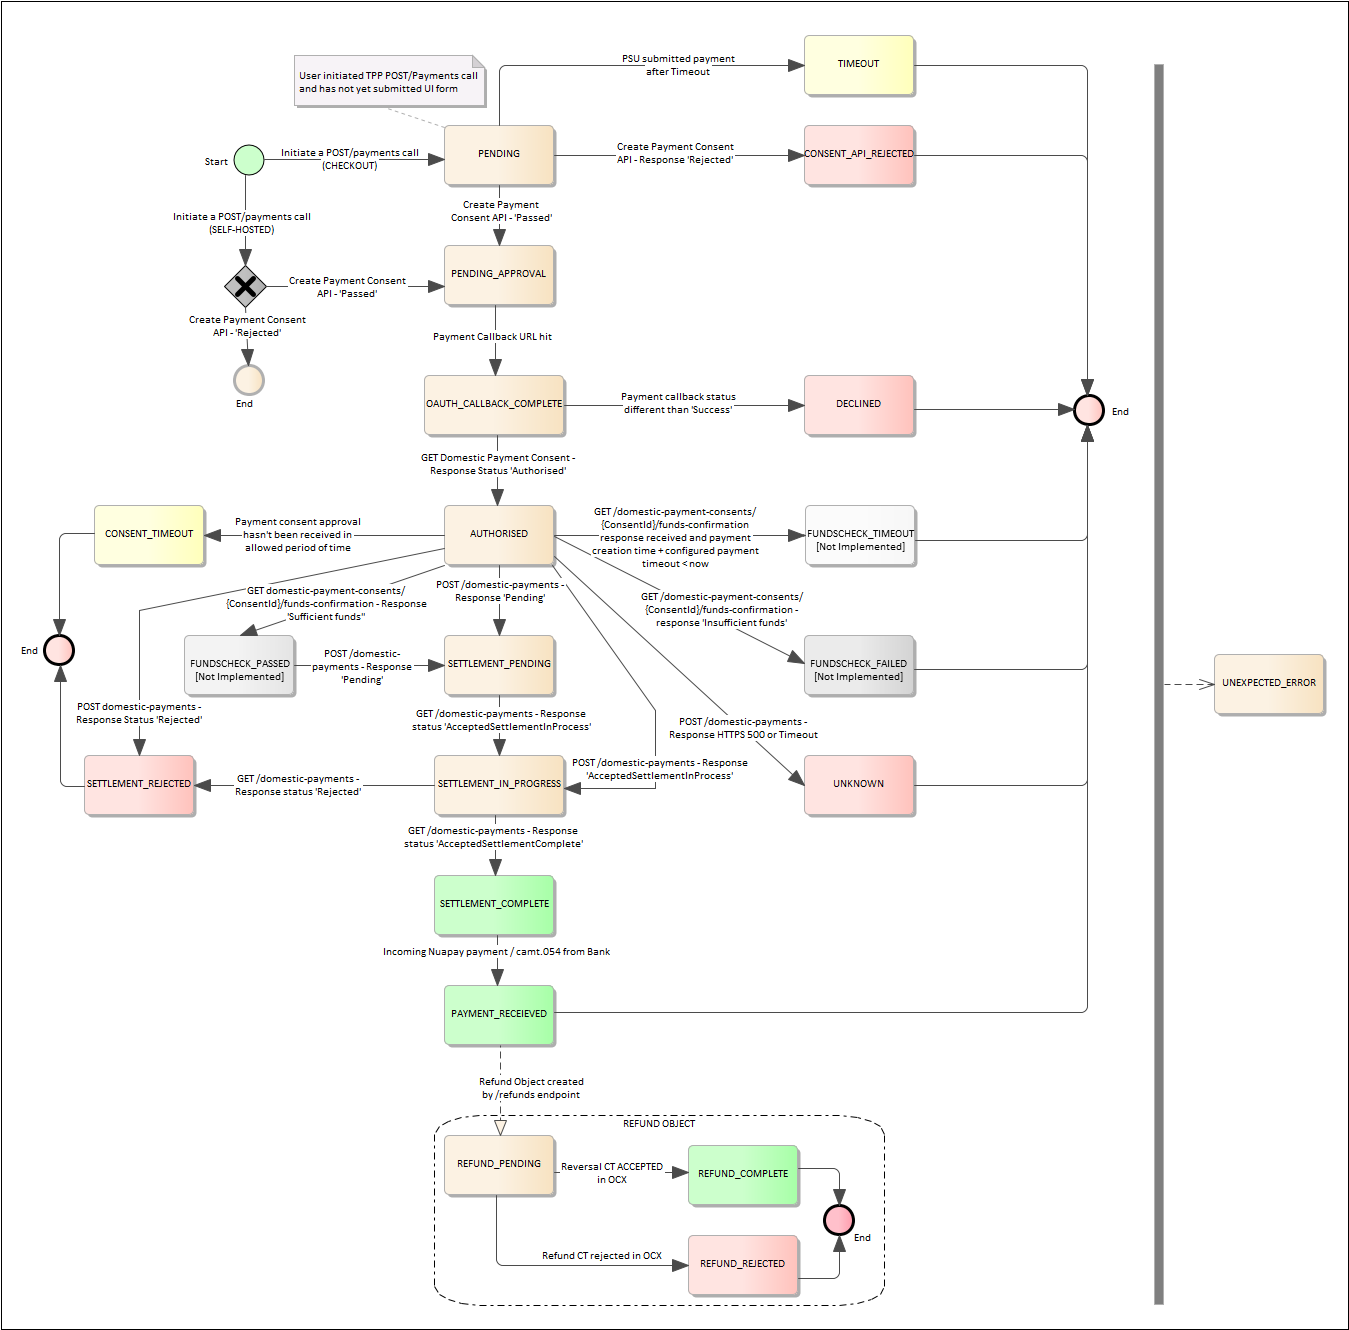
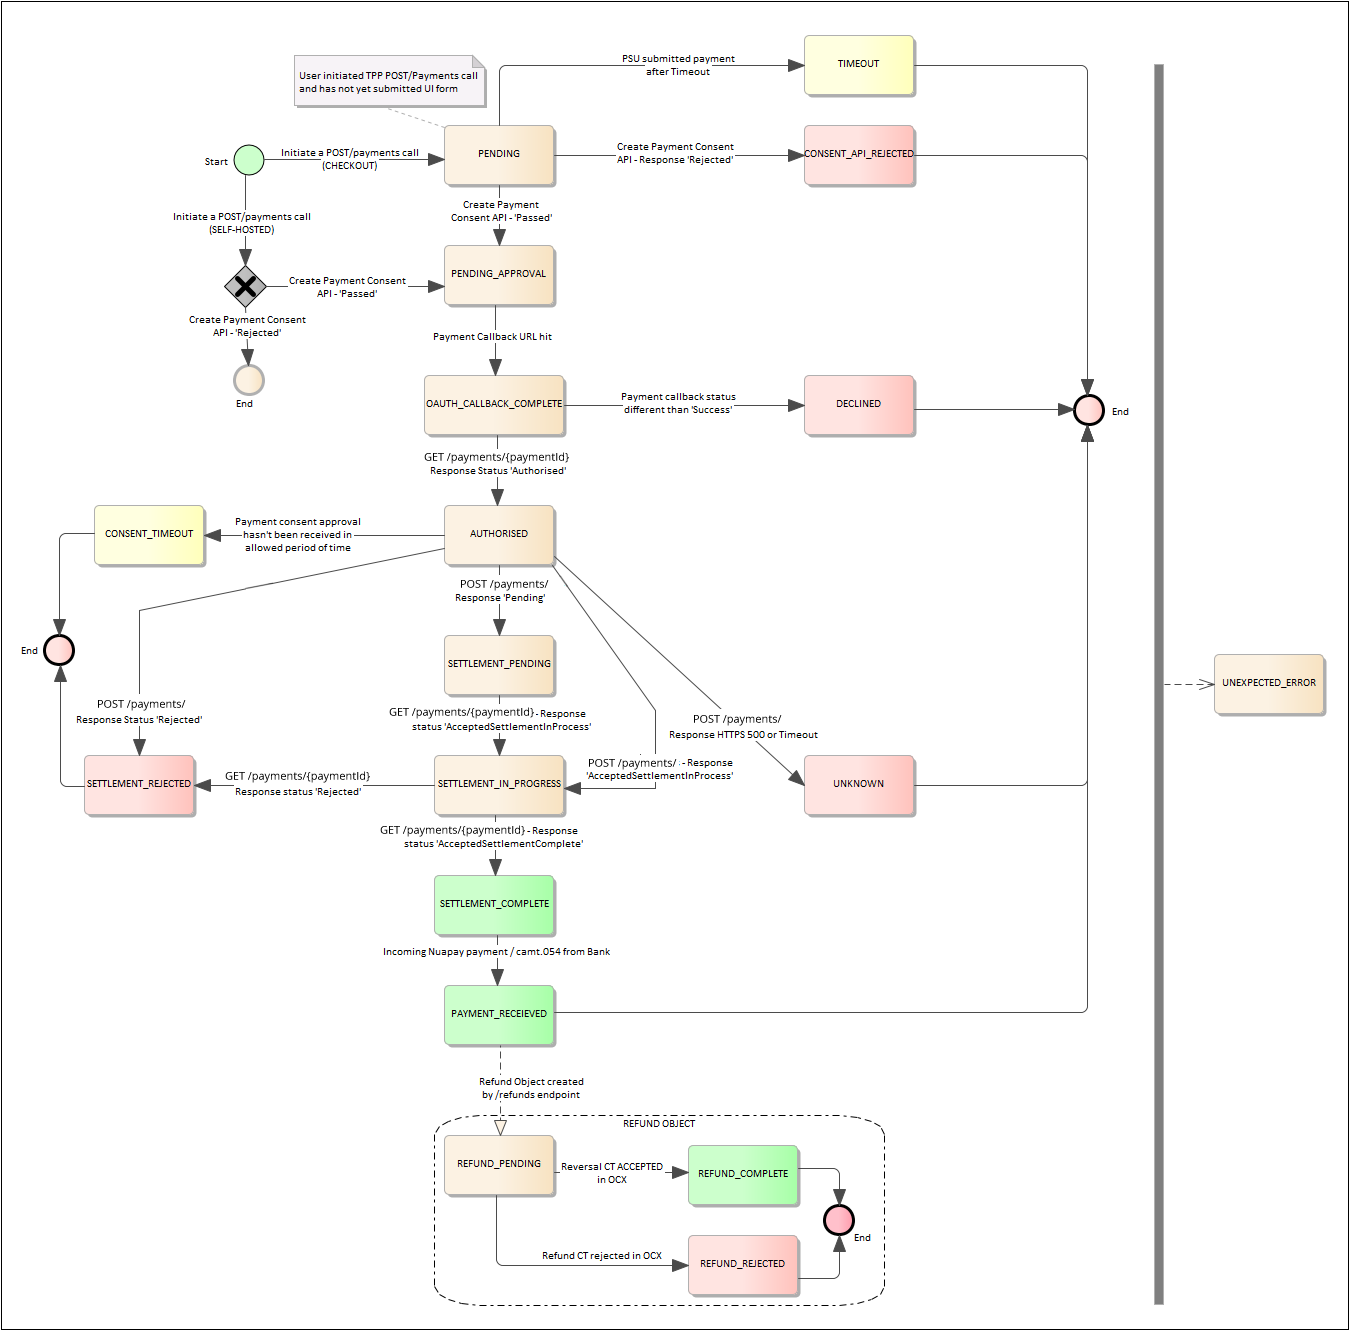
OB statuses; Rearrange intro OB TOC; WH Refund updates

diff --git a/pages/prodOpenBanking/ob_landing_page.html b/pages/prodOpenBanking/ob_landing_page.html
@@ -91,7 +91,7 @@ folder: prodOpenBanking
                     <span class="fa-stack fa-2x">
                           <i class="fa fa-circle fa-stack-2x text-primary"></i>
                           <i class="fa fa-lock fa-stack-1x fa-inverse"></i>
-                          <a href= "ob_secoverview.html"><i class="fa fa-lock fa-stack-1x fa-inverse"></a></i>
+                          <a href= "np_secoverview.html"><i class="fa fa-lock fa-stack-1x fa-inverse"></a></i>
                     </span>
                 </div>
                 <div class="media-body">
@@ -100,7 +100,9 @@ folder: prodOpenBanking
                 </div>
             </div>
           </div>
+
         <div class="col-md-4">
+            <!--
             <div class="media">
                 <div class="pull-left">
                     <span class="fa-stack fa-2x">
@@ -114,7 +116,7 @@ folder: prodOpenBanking
                     <p>Acting as an Account Initiation Service Provider.</p>
                 </div>
             </div>
-
+            -->
 
             <div class="media">
                 <div class="pull-left">

diff --git a/pages/prodOpenBanking/ob_terminology.md b/pages/prodOpenBanking/ob_terminology.md
@@ -8,15 +8,19 @@ folder: prodOpenBanking
 ---
 
 
-Open Banking uses various accronyms, the following provides a summary of the principal terms used:
+Open Banking uses various acronyms, the following provides a summary of the principal terms used:
 
 |**Term**   | **Description**|
-| AISP      | Account Information Service Provider. Provide Access to account balances for example.|
+| AISP      | An Account Information Service Provider. A TPP providing AISP services can provide Access to account balances for example. Nuapay does not currently offer AISP services.|
 | ASPSP     | Account Servicing Payment Service Provider. The Bank or Payment Institution.|
+| Berlin Group| A pan-European payments interoperability standards and harmonisation initiative responsible for the development of the NextGenPSD2 Access to Account  (XS2A) Framework API specification. EUR payments are processed through this scheme or through the STET specification. |
 | CMA       | Competition and Markets Authority - agency responsible for the rollout of Open Banking in the UK|
-| PISP      | Payment Initiation Service Provider. Nuapay acting as a TPP provides Payment Initiation Services.|
+| OBIE | The UK Open Banking Implementation Entity is an organization set up by the UK’s Competition and Markets Authority to design and manage the  specifications for the Application Program Interfaces (APIs) that banks and building societies use to securely provide Open Banking services to TPPs. The OBIE manage the Open Banking Directory, produce guidelines and act as an arbiter managing disputes/complaints. All payments in GBP are made under the OBIE specification (and EUR payments in Ireland).|
+| PISP      | A Payment Initiation Service Provider. Nuapay acting as a TPP provides Payment Initiation Services.|
+| PSD2 | The Payment Services Directive 2 (Directive (EU) 2015/2366), commonly referred to as PSD2 is the EU directive that compelled ASPSPs (typically high-street banks) to makes its customers' data available for Third Party Providers (TPPs like Nuapay) to allow them to provide Account Initiation and Payment Initiation services.|
 | PSU       | Payments Service User. This is the user of a payment service and generally refers to the payer.|
-| TPP       | Third Party Providers / Trusted Third Parties A party other than an ASPSP that provides payment related services. Nuapay is a TPP|
+| STET | A French payments organization that drafted an Open Banking specification that stakeholders (ASPSPs and TPPs) in France must adhere to when implementing their PSD2 Access-to-accounts solutions. EUR payments are processed through this scheme or through the Berlin Group specification.|
+| TPP       | Third Party Providers / Trusted Third Parties A party other than an ASPSP that provides payment related services. Nuapay is a TPP.|
 
 
 {% include links.html %}

diff --git a/pages/prodOpenBanking/ob_paymentstatuses.md b/pages/prodOpenBanking/ob_paymentstatuses.md
@@ -19,7 +19,7 @@ The various statuses possible (for both payments and refunds) are presented in t
 <ul id="profileTabs" class="nav nav-tabs">
     <li class="active"><a href="#profile" data-toggle="tab">Table</a></li>
     <li><a href="#about" data-toggle="tab">Diagram</a></li>
-   
+
 </ul>
   <div class="tab-content">
 <div role="tabpanel" class="tab-pane active" id="profile">
@@ -52,7 +52,7 @@ The various statuses possible (for both payments and refunds) are presented in t
       <td>There was a technical issue at the ASPSP; the payment may be retried.</td>
       <td>No</td>
       <td>No</td>
-      <td>Yes</td> 
+      <td>Yes</td>
       <td><a href="ob_whpaymentrejected.html">PaymentRejected</a></td>
     </tr>
     <tr>
@@ -87,6 +87,7 @@ The various statuses possible (for both payments and refunds) are presented in t
       <td>Yes</td>
       <td><a href="ob_whpaymentdecl.html">PaymentDeclined</a></td>
     </tr>
+    <!--
     <tr>
       <td>FUNDS_CHECK_TIMEOUT [not implemented]</td>
       <td>The response to the funds check is later than the configured timeout.</td>
@@ -111,6 +112,7 @@ The various statuses possible (for both payments and refunds) are presented in t
       <td>No</td>
       <td>N/A</td>
     </tr>
+    -->
     <tr>
       <td><code class="highlighter-rouge">SETTLEMENT_PENDING</code></td>
       <td>The payment has been authorised but has not yet transitioned to <code class="highlighter-rouge">SETTLEMENT_IN_PROGRESS</code> status.</td>
@@ -167,8 +169,8 @@ The various statuses possible (for both payments and refunds) are presented in t
       <td>Yes</td>
       <td><a href="ob_whpaymenttimeout.html">PaymentTimeout</a></td>
     </tr>        
-    
-   
+
+
     <tr>
       <td><code class="highlighter-rouge">UNEXPECTED_ERROR</code></td>
       <td>A processing error has occurred. This may be due to connectivity issues between ASPSP and the TPP for example.</td>
@@ -218,7 +220,7 @@ The various statuses possible (for both payments and refunds) are presented in t
       <td>A refund  has been successfully paid to the PSU.</td>
       <td>Yes</td>
       <td>Yes</td>
-      <td>Yes</td> 
+      <td>Yes</td>
       <td><a href="ob_whrefundcomplete.html">PaymentRefundComplete</a></td>
     </tr>
      <tr>
@@ -226,7 +228,7 @@ The various statuses possible (for both payments and refunds) are presented in t
       <td>The refund could not be paid to the PSU (e.g. the PSU's account is closed).</td>
       <td>Yes</td>
       <td>Yes</td>
-      <td>Yes</td> 
+      <td>Yes</td>
       <td><a href="ob_whrefundrejected.html">PaymentRefundRejected</a></td>
     </tr>
  </tbody>
@@ -250,7 +252,7 @@ The various statuses possible (for both payments and refunds) are presented in t
 </div>
 </div>
 
- 
+
 
 
 

diff --git a/pages/prodOpenBanking/ob_whrefundcomplete.md b/pages/prodOpenBanking/ob_whrefundcomplete.md
@@ -118,10 +118,10 @@ The following is an example of a Received Payment event JSON:
 <code class="json">{
     "eventTimestamp": 1501169079000,
     "eventType": "PaymentRefundComplete",   
-    "resourceReference": "3w92ihg276rg8b4d13x9z9",
+    "resourceReference": "null",
     "resourceReferenceType": "reference",    
-    "resourceUri": "/payments/n7rklmvtjc",
-    "resourceType": "payment",
+    "resourceUri": "/payments/n7rklmvtjc/refunds/mfc672erts",
+    "resourceType": "null",
     "reasonCode": null,
     "resourceOwner": "tc47ygrg72",
     "resourceRemittanceInformation": null     

diff --git a/pages/prodOpenBanking/ob_whrefundrejected.md b/pages/prodOpenBanking/ob_whrefundrejected.md
@@ -118,10 +118,10 @@ The following is an example of a Refund Rejected event JSON:
 <code class="json">{
     "eventTimestamp": 1501169079000,
     "eventType": "PaymentRefundRejected",   
-    "resourceReference": "4892i45r76rg8b4d874r65",
+    "resourceReference": "null",
     "resourceReferenceType": "reference",    
-    "resourceUri": "/payments/t9rklm6lrp",
-    "resourceType": "payment",
+    "resourceUri": "/payments/t9rklm6lrp/refunds/ghyxq6df2",
+    "resourceType": "refund",
     "reasonCode": null,
     "resourceOwner": "tc47ygrg72",
     "resourceRemittanceInformation": null    
